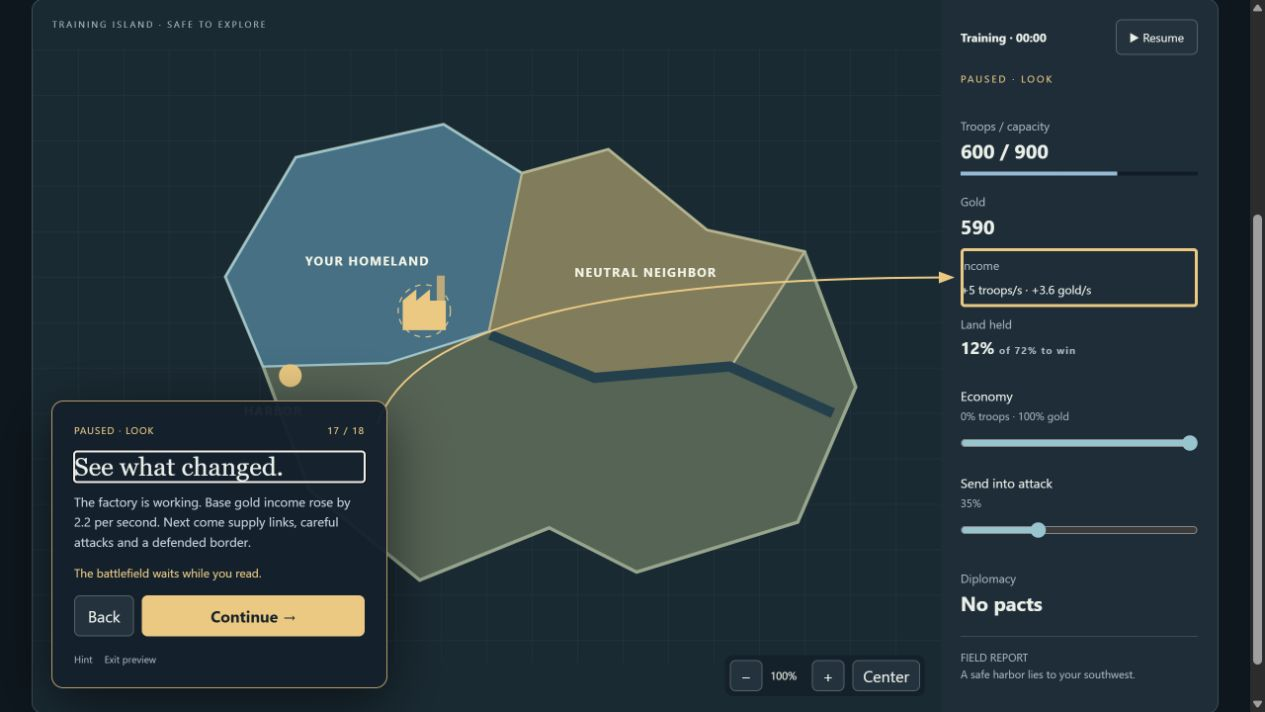
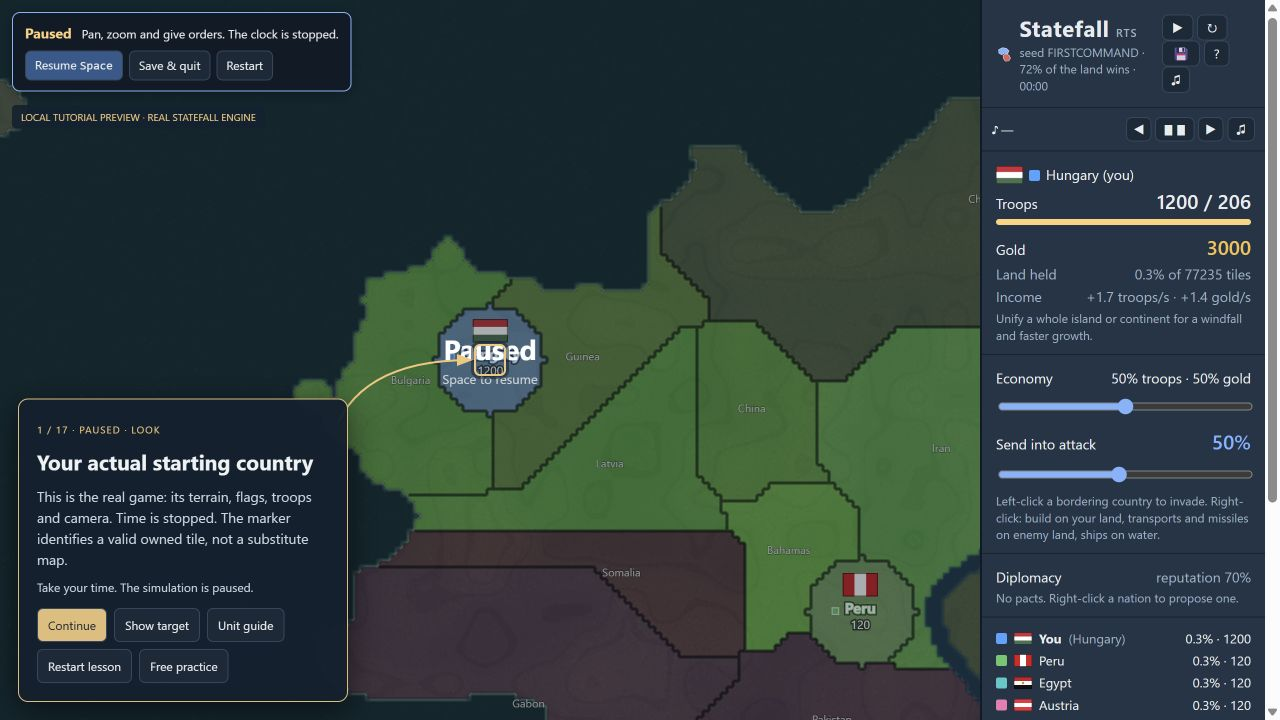
Replace tutorial mockup with real Statefall engine preview

diff --git a/prototypes/tutorial-campaign/index.html b/prototypes/tutorial-campaign/index.html
@@ -1,6 +1,1 @@
-<!doctype html><html lang="en"><head><meta charset="utf-8"><meta name="viewport" content="width=device-width,initial-scale=1"><title>First Command · Tutorial design</title><link rel="stylesheet" href="style.css"></head><body>
-<header><strong>STATEFALL <small>FIRST COMMAND</small></strong><span>INTERACTIVE DESIGN · NOT A LIVE MATCH</span><button id="guide">Unit field guide · 40</button></header><main><nav id="chapters" aria-label="Campaign chapters"></nav><div class="brief"><div><small id="chapter">01 / THE COMMAND TABLE</small><h1 id="title">The battlefield can wait.</h1><p id="description">Read one thing. Try one thing. See what changed.</p></div><button id="restart">Restart opening preview</button></div>
-<section class="command"><div id="map" tabindex="0" aria-label="Training map. Scroll or plus/minus to zoom; drag or arrow keys to pan; Shift F10 opens construction; Enter places a prepared factory."><svg viewBox="0 0 800 540" role="img" aria-label="Schematic island showing blue homeland, neutral neighbor and harbor"><defs><pattern id="grid" width="40" height="40" patternUnits="userSpaceOnUse"><path d="M40 0H0V40" fill="none" stroke="#64808c" stroke-opacity=".15"/></pattern></defs><rect width="800" height="540" fill="url(#grid)"/><g id="world"><path d="M110 200 172 95 302 66 371 109 447 88 534 159 620 178 665 297 614 416 472 460 395 421 281 467 184 388 143 279Z" fill="#526554" stroke="#93a68b" stroke-width="3"/><path id="homeland" d="M172 95 302 66 371 109 342 248 253 276 143 279 110 200Z" fill="#387188" stroke="#95c5cc" stroke-width="2"/><path d="M371 109 447 88 534 159 620 178 556 278 435 287 342 248Z" fill="#827c58" stroke="#b7b38b" stroke-width="2"/><path d="M343 251 435 289 554 279 645 320" fill="none" stroke="#1b414e" stroke-width="9"/><text x="235" y="190">YOUR HOMELAND</text><text x="480" y="200">NEUTRAL NEIGHBOR</text><circle cx="167" cy="287" r="10" fill="#f2c778"/><text x="152" y="322">HARBOR</text><circle id="buildSite" cx="285" cy="230" r="23" fill="none" stroke="#f2c778" stroke-dasharray="5 5"/><g id="factory" visibility="hidden"><path d="m266 221 12-10v10l12-10v10h14v26h-38z" fill="#f2c778"/><path d="M296 221v-22h7v22" fill="#c1a873"/></g></g></svg><span class="maptag">TRAINING ISLAND · SAFE TO EXPLORE</span><div class="camera"><button id="minus" aria-label="Zoom out">−</button><span id="scale">120%</span><button id="plus" aria-label="Zoom in">+</button><button id="center">Center</button></div><div id="build" hidden><strong>Build on your land</strong><button id="buy">Factory · 110 gold</button><small>15 seconds · Earn gold over time</small></div></div>
-<aside><div id="time"><strong>Training · 00:00</strong><button id="pause">▶ Resume</button></div><p id="status">PAUSED · LOOK</p><div class="stat" id="troops"><span>Troops / capacity</span><strong>600 / 900</strong><div class="bar"></div></div><div class="stat" id="gold"><span>Gold</span><strong id="goldValue">700</strong></div><div class="stat" id="income"><span>Income</span><strong id="incomeValue">+5 troops/s · +1.4 gold/s</strong></div><div class="stat" id="land"><span>Land held</span><strong>12% <small>of 72% to win</small></strong></div><label id="economy">Economy <span id="econText">50% troops · 50% gold</span><input id="econ" type="range" min="0" max="100" value="50" aria-label="Gold share"></label><label id="attack">Send into attack <span id="attackText">50%</span><input id="ratio" type="range" min="5" max="100" value="50" aria-label="Attack share"></label><div id="diplomacy" class="stat"><span>Diplomacy</span><strong>No pacts</strong></div><p class="report">FIELD REPORT<br>A safe harbor lies to your southwest.</p></aside></section><section id="details" hidden><h2>The practical lessons</h2><div id="units"></div><p>Advanced missions are specified in the full campaign design. This preview demonstrates orientation and the first factory.</p></section></main>
-<svg id="arrow" aria-hidden="true"><defs><marker id="head" markerWidth="10" markerHeight="10" refX="7" refY="3" orient="auto"><path d="M0 0V6L8 3Z" fill="#f2c778"/></marker></defs><path id="line" marker-end="url(#head)"/></svg><section id="coach" aria-labelledby="heading"><div class="top"><span id="phase">PAUSED · LOOK</span><span id="count"></span></div><h2 id="heading" tabindex="-1"></h2><p id="copy"></p><p id="feedback" role="status"></p><div class="actions"><button id="back">Back</button><button id="next">Continue →</button></div><div class="foot"><button id="hint">Hint</button><button id="skip">Skip exercise</button><button id="exit">Exit preview</button></div></section>
-<dialog id="roster"><div class="dialogtop"><h2>Every unit. A practical lesson.</h2><button id="close">Close</button></div><label>Find a unit <input id="search" type="search" placeholder="Try destroyer, radar or repair"></label><div id="cards"></div></dialog><script type="module" src="app.mjs"></script></body></html>
+<!doctype html><meta charset="utf-8"><title>Statefall tutorial</title><meta http-equiv="refresh" content="0;url=/?browserTest=1"><a href="/?browserTest=1">Open the real-engine tutorial</a>

diff --git a/prototypes/tutorial-campaign/engine-demo.css b/prototypes/tutorial-campaign/engine-demo.css
@@ -1,0 +1,1 @@
+#training{position:fixed;z-index:55;left:18px;bottom:18px;width:330px;padding:18px;background:#10212ff5;border:1px solid #e2bd77;border-radius:10px;box-shadow:0 8px 30px #0008;color:#edf2f4;font:14px/1.5 system-ui}#training h2{font-size:21px;margin:8px 0}#training p{margin:8px 0;color:#c7d7df}#training small{color:#f2c778;font-size:10px;letter-spacing:1px}#training .actions{display:flex;gap:7px;flex-wrap:wrap;margin-top:12px}#training button{font:12px system-ui;padding:8px 10px}#trainingNext{background:#e2bd77;color:#142330;font-weight:bold}#trainingFeedback{font-size:12px;min-height:18px}#trainingArrow{position:fixed;inset:0;width:100%;height:100%;pointer-events:none;z-index:54}#trainingArrow path{stroke:#f2c778;stroke-width:2;fill:none}#trainingRing{position:fixed;pointer-events:none;border:2px solid #f2c778;box-shadow:0 0 0 3px #10212f88;border-radius:6px;z-index:53}#trainingBadge{position:fixed;left:12px;top:105px;z-index:20;color:#f2c778;background:#10212fe8;padding:5px 9px;border-radius:4px;font:10px system-ui;pointer-events:none}#training[hidden],#trainingRing[hidden],#trainingArrow[hidden]{display:none}#trainingHelpReturn{position:fixed;right:20px;bottom:14px;z-index:100;padding:10px;background:#e2bd77;color:#142330;border-radius:6px}@media(max-width:700px){#training{width:min(310px,calc(100vw - 24px));left:12px;bottom:12px;max-height:40vh;overflow:auto}#trainingBadge{top:98px;font-size:9px}}

diff --git a/docs/current-status.md b/docs/current-status.md
@@ -2,7 +2,7 @@
 
 **GitHub synchronized — verified directly on 1 October 2026 UTC.** All accumulated source was pushed in `f8c1ade044be697504d45913f76e9a31d08ed17c` ("Bring Statefall source, audio, website and release history current; add tactical pause"). Completed 1.10.62 deployment evidence and corrected status were then pushed in `80bea026f22a0a2db8e97285a898a98c565d3099`. Ken explicitly authorized committing and pushing all current work. Statements below saying no push occurred describe earlier releases and are historical, not current backup status. Subsequent tutorial design work is committed separately. GitHub backs up committed source, not the WordPress database, uploads or credentials. The restorable WordPress backup is user-confirmed in the 1.10.61 release record and has not been independently checked in the hosting portal. To assess freshness, compare `git rev-parse HEAD` with `git ls-remote origin refs/heads/main`; do not use historical prose or the older local main branch as evidence that the remote is behind.
 
-**Tutorial design delivered — First Command.** Nine chapters cover paused interface explanations, camera control, construction and all 40 roster entries, with outcome predicates, checkpoint recovery, accessibility and score/save isolation. [Complete campaign design](tutorial-campaign-design.md) · [Interactive opening preview](../prototypes/tutorial-campaign/README.md). The prototype was exercised through pause, zoom out, pan, zoom in, sliders, factory selection/placement and construction result; the 40-card searchable roster and chapter coverage passed. Syntax checks and browser console checks passed; narrow-layout DOM checks found no horizontal overflow. The campaign is designed, not integrated or deployed. Production remains 1.10.62.
+**Tutorial opening now uses the real engine — First Command.** The schematic demo has been replaced with the actual game entry point, terrain, artwork, camera, native controls, build menus and illustrated unit guide. Its 17-step opening passed Chromium coverage for pause, zoom/pan, sliders, city/factory placement, actual costs and full 150-tick construction. Syntax checks passed and the rendered preview was inspected. Firefox was blocked by a local browser privacy warning; WebKit did not complete. Nine chapters covering all 40 roster entries remain the full campaign design, not a completed campaign implementation. [Complete campaign design](tutorial-campaign-design.md) · [Real-engine opening preview](../prototypes/tutorial-campaign/README.md). This is local prototype work; production remains 1.10.62.
 
 **Production 1.10.62 / plugin 1.10.10 — tactical pause is live and verified.** Exact qualified ZIP installed 1 October 2026 at 01:58:14 UTC; caches cleared 01:58:52 UTC. Full local qualification passed and Docker is stopped. Live pause, camera inspection, Help/About, public assets, profile/leaderboard, save/resume, established historical replay and completed score submission passed. Prior 1.10.61 remains available for rollback. A pre-existing 1.10.61 resumed recording is missing checkpoint history; see [follow-up](replay-resume-checkpoint-followup.md). [Release record](release-record-1.10.62.md).
 

diff --git a/prototypes/tutorial-campaign/README.md b/prototypes/tutorial-campaign/README.md
@@ -1,7 +1,11 @@
-# First Command design preview
+# First Command — real-engine tutorial preview
 
-Run `node prototypes/tutorial-campaign/server.cjs` from the repository root, then open http://127.0.0.1:4188/prototypes/tutorial-campaign/index.html.
+Run `node prototypes/tutorial-campaign/server.cjs` from the repository root and open http://127.0.0.1:4188/?browserTest=1. The previous preview URL redirects here.
 
-This is a presentation prototype, not an integrated campaign. It demonstrates a paused coach with arrows, camera exercises, interface guidance, schematic factory placement and a compressed construction result. Chapter tabs describe the course; the searchable guide imports all 40 actual roster entries and art. A startup assertion requires every roster key to have a chapter assignment.
+This runs the actual game entry point through its existing Vite configuration: deterministic engine, Canvas renderer, terrain, artwork, native controls, menus and illustrated help. A local-only injected coach uses the existing development bridge to start a reproducible paused match, observe outcomes and project world anchors. No production game files or releases are changed.
 
-The full campaign is specified in `docs/tutorial-campaign-design.md`. Prototype interactions intentionally simplify ownership and construction and do not run combat or simulation. Progress is temporary; no accounts, scores, production writes or external services are used. Prices in the roster come from shared rules; the first-factory illustration is explicitly tied to the 1.10.62 design baseline.
+The 17-step opening requires actual zoom/pan, economy/attack settings, native pause, a city from the build menu and a factory placed through the game's F mode. Gold deductions and placement restrictions are real. Factory construction runs for the full 150 simulation ticks (15 seconds) before the coach pauses the engine. Show target uses the camera's actual projection; unit explanations open the existing game guide.
+
+This is an opening lesson and free-practice demo, not the complete nine-chapter campaign. The later chapters remain specified in `docs/tutorial-campaign-design.md`. Training uses local custom starting resources and Paused orders, with no WordPress account connection. Restart lesson reloads a fresh fixture. Free practice leaves the real match paused for the player to resume.
+
+Regression: `npx playwright test --config prototypes/tutorial-campaign/playwright.config.cjs --project=chromium`. The test server is isolated on port 4190. Chromium passed the complete sequence, including frozen time, camera controls, real gold deductions, native placement, 150 construction ticks and guide pause preservation. Firefox was blocked by the local SSLKEYLOGFILE privacy warning; WebKit did not complete and was interrupted. Neither is claimed verified. No production release qualification was performed for this local prototype.

diff --git a/docs/tutorial-campaign-design.md b/docs/tutorial-campaign-design.md
@@ -1,6 +1,6 @@
 # Statefall tutorial campaign — First Command
 
-Design baseline: deployed game 1.10.62, 1 October 2026 UTC. **Design complete; campaign integration is not shipped.** The companion `prototypes/tutorial-campaign/index.html` demonstrates the opening coach, camera exercises, first construction flow and complete roster reference on a schematic map. It does not run the Statefall simulation or award campaign progress.
+Design baseline: deployed game 1.10.62, 1 October 2026 UTC. **Design complete; campaign integration is not shipped.** The companion `prototypes/tutorial-campaign/server.cjs` now runs the real game engine and renderer with a local-only coach. Its opening lesson uses actual camera controls, native menus, placement validation, gold deductions and full simulation construction time. The former schematic preview was replaced after visual review; advanced chapters below remain design work, not playable missions.
 
 ## Player promise
 
@@ -203,4 +203,4 @@ At 200% zoom or narrow width, use a compact docked coach with the target scrolle
 4. Add capstone/debrief and classification protection. Confirm tutorials cannot submit regular scores or overwrite ordinary autosaves, including direct API attempts. Ordinary matches, saves and replays must retain deterministic behavior.
 5. Run full repository release qualification, exact-ZIP integration and performance checks. Coach/art loads lazily after Learn to play; ordinary startup should not pay for all scenario fixtures. Production release needs current About, guide and a new version; 1.10.62 remains the shipped pause patch.
 
-Design acceptance: every chapter has ordered tasks, outcomes, recovery and prerequisites; every roster entry has a practical lesson; orientation includes paused arrows, zoom-out before panning, zoom-in inspection, interface reading and construction. Implementation acceptance additionally requires fresh-player playtesting and all technical gates above. The companion prototype validates presentation/interaction direction only.
+Design acceptance: every chapter has ordered tasks, outcomes, recovery and prerequisites; every roster entry has a practical lesson; orientation includes paused arrows, zoom-out before panning, zoom-in inspection, interface reading and construction. Implementation acceptance additionally requires fresh-player playtesting and all technical gates above. The companion prototype runs the opening lesson with the actual engine and native construction; it does not implement the later campaign chapters or production training isolation.
